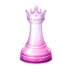
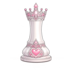
pieces

Changed region(s): [[0.25, 0.0278, 0.75, 0.8889]]

diff --git a/frontend/src/pages/Games.tsx b/frontend/src/pages/Games.tsx
@@ -27,12 +27,14 @@ function TicTacToeBoard({ game, onMove, disabled }: { game: Game; onMove: (pos: 
           const isWinCell = winLine.includes(i);
           const isEmpty = cell === null;
           const canClick = isMyTurn && isEmpty && !disabled;
+          const isLincoln = cell === 'X';
+          const isArden = cell === 'O';
           return (
             <button
               key={i}
               onClick={() => canClick && onMove(i)}
               disabled={!canClick}
-              className="relative rounded-lg flex items-center justify-center text-2xl font-bold transition-all"
+              className="relative rounded-lg flex items-center justify-center transition-all"
               style={{
                 background: isWinCell
                   ? game.winner === 'lincoln' ? 'rgba(138,138,154,0.15)' : 'rgba(229,178,230,0.15)'
@@ -41,13 +43,19 @@ function TicTacToeBoard({ game, onMove, disabled }: { game: Game; onMove: (pos: 
                   ? `2px solid ${game.winner === 'lincoln' ? 'rgba(138,138,154,0.4)' : 'rgba(229,178,230,0.4)'}`
                   : '1px solid rgba(58,45,107,0.4)',
                 cursor: canClick ? 'pointer' : 'default',
-                color: cell === 'X' ? '#8a8a9a' : cell === 'O' ? '#e5b2e6' : 'transparent',
-                textShadow: cell ? `0 0 12px ${cell === 'X' ? 'rgba(138,138,154,0.4)' : 'rgba(229,178,230,0.4)'}` : 'none',
               }}
               onMouseEnter={(e) => { if (canClick) { e.currentTarget.style.background = 'rgba(229,178,230,0.08)'; e.currentTarget.style.borderColor = 'rgba(229,178,230,0.3)'; } }}
               onMouseLeave={(e) => { if (canClick) { e.currentTarget.style.background = 'rgba(30,23,64,0.6)'; e.currentTarget.style.borderColor = 'rgba(58,45,107,0.4)'; } }}
             >
-              {cell || (canClick ? <span style={{ color: 'rgba(229,178,230,0.1)' }}>O</span> : '')}
+              {isLincoln && (
+                <img src="/pieces/tictactoe/lincoln.png" alt="X" className="w-14 h-14 object-contain select-none pointer-events-none" draggable={false} />
+              )}
+              {isArden && (
+                <img src="/pieces/tictactoe/arden.png" alt="O" className="w-14 h-14 object-contain select-none pointer-events-none" draggable={false} />
+              )}
+              {isEmpty && canClick && (
+                <img src="/pieces/tictactoe/arden.png" alt="O" className="w-10 h-10 object-contain opacity-10 select-none pointer-events-none" draggable={false} />
+              )}
             </button>
           );
         })}
@@ -208,7 +216,8 @@ function CheckersBoard({ game, onMove, disabled }: { game: Game; onMove: (from: 
 }
 
 // ===== CHESS BOARD =====
-// Custom piece images — Lincoln (White/uppercase), Arden (Black/lowercase)
+// Custom piece images — Lincoln plays dark pieces, Arden plays light/pink pieces
+// Backend: uppercase = lincoln, lowercase = arden (game logic unchanged)
 const CHESS_PIECE_IMAGES: Record<string, string> = {
   'K': '/pieces/lincoln/king.png',
   'Q': '/pieces/lincoln/queen.png',
@@ -326,7 +335,6 @@ function ChessBoard({ game, onMove, disabled }: { game: Game; onMove: (from: num
                           width: '30px',
                           height: '30px',
                           objectFit: 'contain',
-                          filter: `drop-shadow(0 1px 3px ${isWhite ? 'rgba(138,138,154,0.5)' : 'rgba(229,178,230,0.5)'})`,
                         }}
                         draggable={false}
                       />
@@ -404,9 +412,9 @@ const GAME_LABELS: Record<GameType, string> = {
 };
 
 const GAME_ROLES: Record<GameType, [string, string]> = {
-  tictactoe: ['X — Lincoln', 'O — Arden'],
+  tictactoe: ['Lincoln', 'Arden'],
   checkers: ['Red — Lincoln', 'Black — Arden'],
-  chess: ['White — Lincoln', 'Black — Arden'],
+  chess: ['Black — Lincoln', 'White — Arden'],
 };
 
 // ===== MAIN PAGE =====
